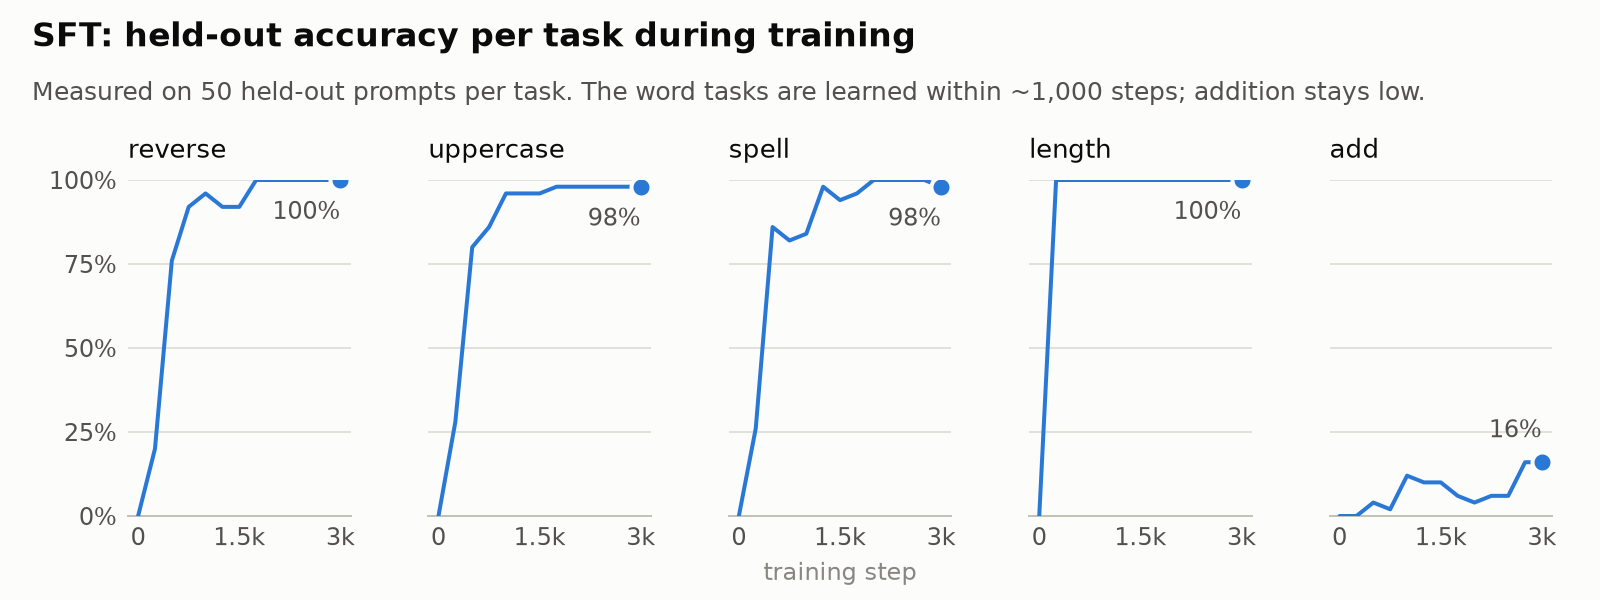
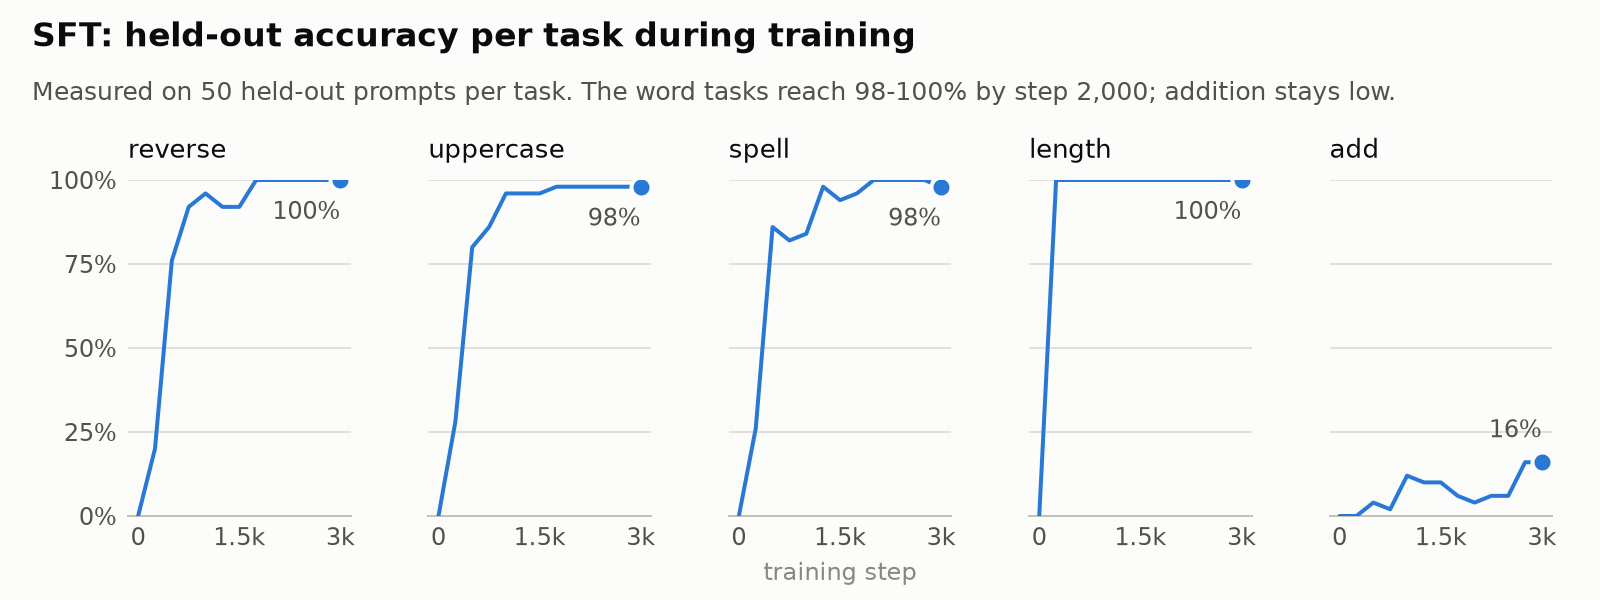
Address review: examples from the 500-per-task set, accurate captions
- make_examples.py takes the example prompts from the same 500-per-task
  evaluation set as the README table (a smaller set draws different
  prompts after the first task); the example table is regenerated
- The SFT paragraph quoted GRPO's "Say a line as KING RICHARD III." reply;
  it now describes SFT's own replies
- The word tasks reach 98-100% by step 2,000, not by ~1,000 (README text,
  alt text and the SFT figure subtitle)
- The note on prompt counts now says it applies to the accuracy curves

Claude-Session: https://claude.ai/code/session_01HpWxV4LpC7yRxGMyZBnKHA

Changed region(s): [[0.4688, 0.12, 0.9062, 0.18]]

diff --git a/docs/make_examples.py b/docs/make_examples.py
@@ -14,6 +14,7 @@ from charlm import TaskSuite, load_checkpoint, sample_replies, score  # noqa: E4
 
 EXAMPLE = os.path.join(ROOT, 'checkpoints', 'example')
 MODELS = ['sft', 'dpo', 'grpo']
+EVAL_PER_TASK = 500  # the evaluation set behind the README table; its prompts depend on this size
 PER_TASK = {'reverse': 2, 'uppercase': 1, 'spell': 2, 'length': 1, 'add': 5}  # the first prompts of each task
 SPEAKERS = ['ROMEO', 'JULIET', 'KING RICHARD III', 'Nurse']
 
@@ -24,7 +25,7 @@ def cell(text):
 
 def main():
     suite = TaskSuite(open(os.path.join(ROOT, 'data', 'input.txt')).read())
-    eval_set = suite.eval_set(max(PER_TASK.values()))
+    eval_set = suite.eval_set(EVAL_PER_TASK)
     examples = [e for task, n in PER_TASK.items() for e in [x for x in eval_set if x.task == task][:n]]
     models = {name: load_checkpoint(os.path.join(EXAMPLE, f'{name}.pt'))[:2] for name in MODELS}
 

diff --git a/docs/make_figures.py b/docs/make_figures.py
@@ -138,8 +138,8 @@ def pretraining_loss(t):
 def sft_accuracy(t):
     rows = read_metrics('sft.metrics.jsonl')
     fig, axes = new_figure(t, 'SFT: held-out accuracy per task during training',
-                           'Measured on 50 held-out prompts per task. The word tasks are learned within ~1,000 '
-                           'steps; addition stays low.', ncols=5, height=3.0, top=0.7, wspace=0.35)
+                           'Measured on 50 held-out prompts per task. The word tasks reach 98-100% by step 2,000; '
+                           'addition stays low.', ncols=5, height=3.0, top=0.7, wspace=0.35)
     fig.subplots_adjust(right=0.97)
     for ax, task in zip(axes, TASKS):
         x, acc = column(rows, f'acc/{task}', 100)

diff --git a/README.md b/README.md
@@ -77,7 +77,7 @@ python -m charlm eval --model checkpoints/example/{base,sft,dpo,grpo}.pt --n-per
   <img alt="Grouped bar chart of held-out accuracy per task for the SFT, DPO and GRPO models. All three are near 100% on reverse, uppercase, spell and length. On addition SFT scores 13%, DPO 20% and GRPO 24%." src="docs/figures/final_comparison.png">
 </picture>
 
-The training curves below are measured during training on 100 held-out prompts per task (50 for SFT), so they are noisier than the 500-prompt table. The figures and example tables are generated by `docs/make_figures.py` and `docs/make_examples.py` from the files in `checkpoints/example/`.
+The accuracy curves below (SFT, DPO and GRPO) are measured during training on 100 held-out prompts per task (50 for SFT), so they are noisier than the 500-prompt table. The figures and example tables are generated by `docs/make_figures.py` and `docs/make_examples.py` from the files in `checkpoints/example/`.
 
 ### Pretraining
 
@@ -105,11 +105,11 @@ Asked "Reverse the word: toy", it just keeps writing a play (" the common of the
 
 ### SFT
 
-SFT teaches the chat format and solves the word tasks within about 1,000 steps. "Reverse the word: shakespeare" → "eraepsekahs". It also keeps the Shakespeare: "Say a line as KING RICHARD III." → "Then I say, and so shall I stay."
+SFT teaches the chat format and the word tasks: they reach 84-100% accuracy by step 1,000 and 98-100% by step 2,000. "Reverse the word: shakespeare" → "eraepsekahs". Its replies to "Say a line as …" sound Shakespearean, if not very meaningful (examples below).
 
 <picture>
   <source media="(prefers-color-scheme: dark)" srcset="docs/figures/sft_accuracy_dark.png">
-  <img alt="Five small line charts of held-out accuracy during SFT, one per task. Reverse, uppercase, spell and length climb to 98-100% within about 1,000 steps; addition stays between 0% and 16%." src="docs/figures/sft_accuracy.png">
+  <img alt="Five small line charts of held-out accuracy during SFT, one per task. Reverse, uppercase, spell and length reach 84-100% by step 1,000 and 98-100% by step 2,000; addition stays between 0% and 16%." src="docs/figures/sft_accuracy.png">
 </picture>
 
 Addition is the hard task. The model gets the size of the answer right (first digit 92%, number of digits 98%), but its last digit is close to a random guess, so only 13% of its answers are exact. That leaves room for the next two stages.
@@ -173,23 +173,23 @@ saved model to checkpoints/example/grpo.pt
 
 ### Example replies
 
-These are the first held-out prompts of each task, not hand-picked, answered greedily by each model:
+These are the first prompts of each task in the 500-per-task evaluation set above, not hand-picked, answered greedily by each model:
 
 | prompt | expected | SFT | DPO | GRPO |
 |---|---|---|---|---|
 | Reverse the word: toy | `yot` | `yot` ✓ | `yot` ✓ | `yot` ✓ |
 | Reverse the word: faster | `retsaf` | `retsaf` ✓ | `retsaf` ✓ | `retsaf` ✓ |
-| Write in capital letters: headlong | `HEADLONG` | `HEADLONG` ✓ | `HEADLONG` ✓ | `HEADLONG` ✓ |
-| Spell out: turtles | `t-u-r-t-l-e-s` | `t-u-r-t-l-e-s` ✓ | `t-u-r-t-l-e-s` ✓ | `t-u-r-t-l-e-s` ✓ |
-| Spell out: yonder | `y-o-n-d-e-r` | `y-o-n-d-e-r` ✓ | `y-o-n-d-e-r` ✓ | `y-o-n-d-e-r` ✓ |
-| How many letters are in "milking"? | `7` | `7` ✓ | `7` ✓ | `7` ✓ |
-| What is 43 + 18? | `61` | `62` ✗ | `63` ✗ | `62` ✗ |
-| What is 28 + 40? | `68` | `66` ✗ | `65` ✗ | `66` ✗ |
-| What is 32 + 76? | `108` | `102` ✗ | `100` ✗ | `108` ✓ |
-| What is 49 + 47? | `96` | `96` ✓ | `94` ✗ | `108` ✗ |
-| What is 28 + 16? | `44` | `49` ✗ | `42` ✗ | `42` ✗ |
+| Write in capital letters: oppression | `OPPRESSION` | `OPPRESSION` ✓ | `OPPRESSION` ✓ | `OPPRESSION` ✓ |
+| Spell out: pipes | `p-i-p-e-s` | `p-i-p-e-s` ✓ | `p-i-p-e-s` ✓ | `p-i-p-e-s` ✓ |
+| Spell out: meteors | `m-e-t-e-o-r-s` | `m-e-t-e-o-r-s` ✓ | `m-e-t-e-o-r-s` ✓ | `m-e-t-e-o-r-s` ✓ |
+| How many letters are in "conqueror"? | `9` | `9` ✓ | `9` ✓ | `9` ✓ |
+| What is 65 + 11? | `76` | `72` ✗ | `77` ✗ | `77` ✗ |
+| What is 32 + 95? | `127` | `122` ✗ | `127` ✓ | `122` ✗ |
+| What is 27 + 41? | `68` | `66` ✗ | `67` ✗ | `61` ✗ |
+| What is 33 + 96? | `129` | `122` ✗ | `126` ✗ | `122` ✗ |
+| What is 53 + 19? | `72` | `72` ✓ | `70` ✗ | `72` ✓ |
 
-The word tasks are easy for all three. On addition the answers are usually close but wrong, mostly in the last digit, as described under SFT. GRPO gets 32 + 76 right, but not 49 + 47, which SFT got right.
+The word tasks are easy for all three. On addition, every wrong answer here has the right leading digits and a wrong last digit, as described under SFT. Each model gets one of these five right; five prompts are too few to show the differences in the table above.
 
 The "Say a line as …" task has no single right answer, so DPO and GRPO don't train on it. SFT and GRPO replies:
 
